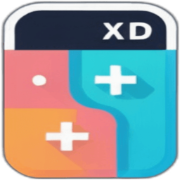
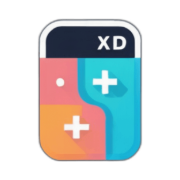
.

diff --git a/index.html b/index.html
@@ -5,11 +5,12 @@
     <!-- <link rel="icon" type="image/svg+xml" href="/logo-icon-transparent.png" /> -->
 
 
-    <link rel="apple-touch-icon" sizes="180x180" href="/apple-touch-icon.png">
-    <link rel="icon" type="image/png" sizes="32x32" href="/favicon-32x32.png">
-    <link rel="icon" type="image/png" sizes="16x16" href="/favicon-16x16.png">
-    <link rel="manifest" href="/site.webmanifest">
-
+    <link rel="icon" type="image/png" href="/favicon-96x96.png" sizes="96x96" />
+    <link rel="icon" type="image/svg+xml" href="/favicon.svg" />
+    <link rel="shortcut icon" href="/favicon.ico" />
+    <link rel="apple-touch-icon" sizes="180x180" href="/apple-touch-icon.png" />
+    <meta name="apple-mobile-web-app-title" content="Dynamic" />
+    <link rel="manifest" href="/site.webmanifest" />
 
     <!-- <meta name="viewport" content="width=device-width, initial-scale=1.0" /> -->
     <meta name="viewport" content="width=device-width, initial-scale=1.0, maximum-scale=1.0, user-scalable=no" />
